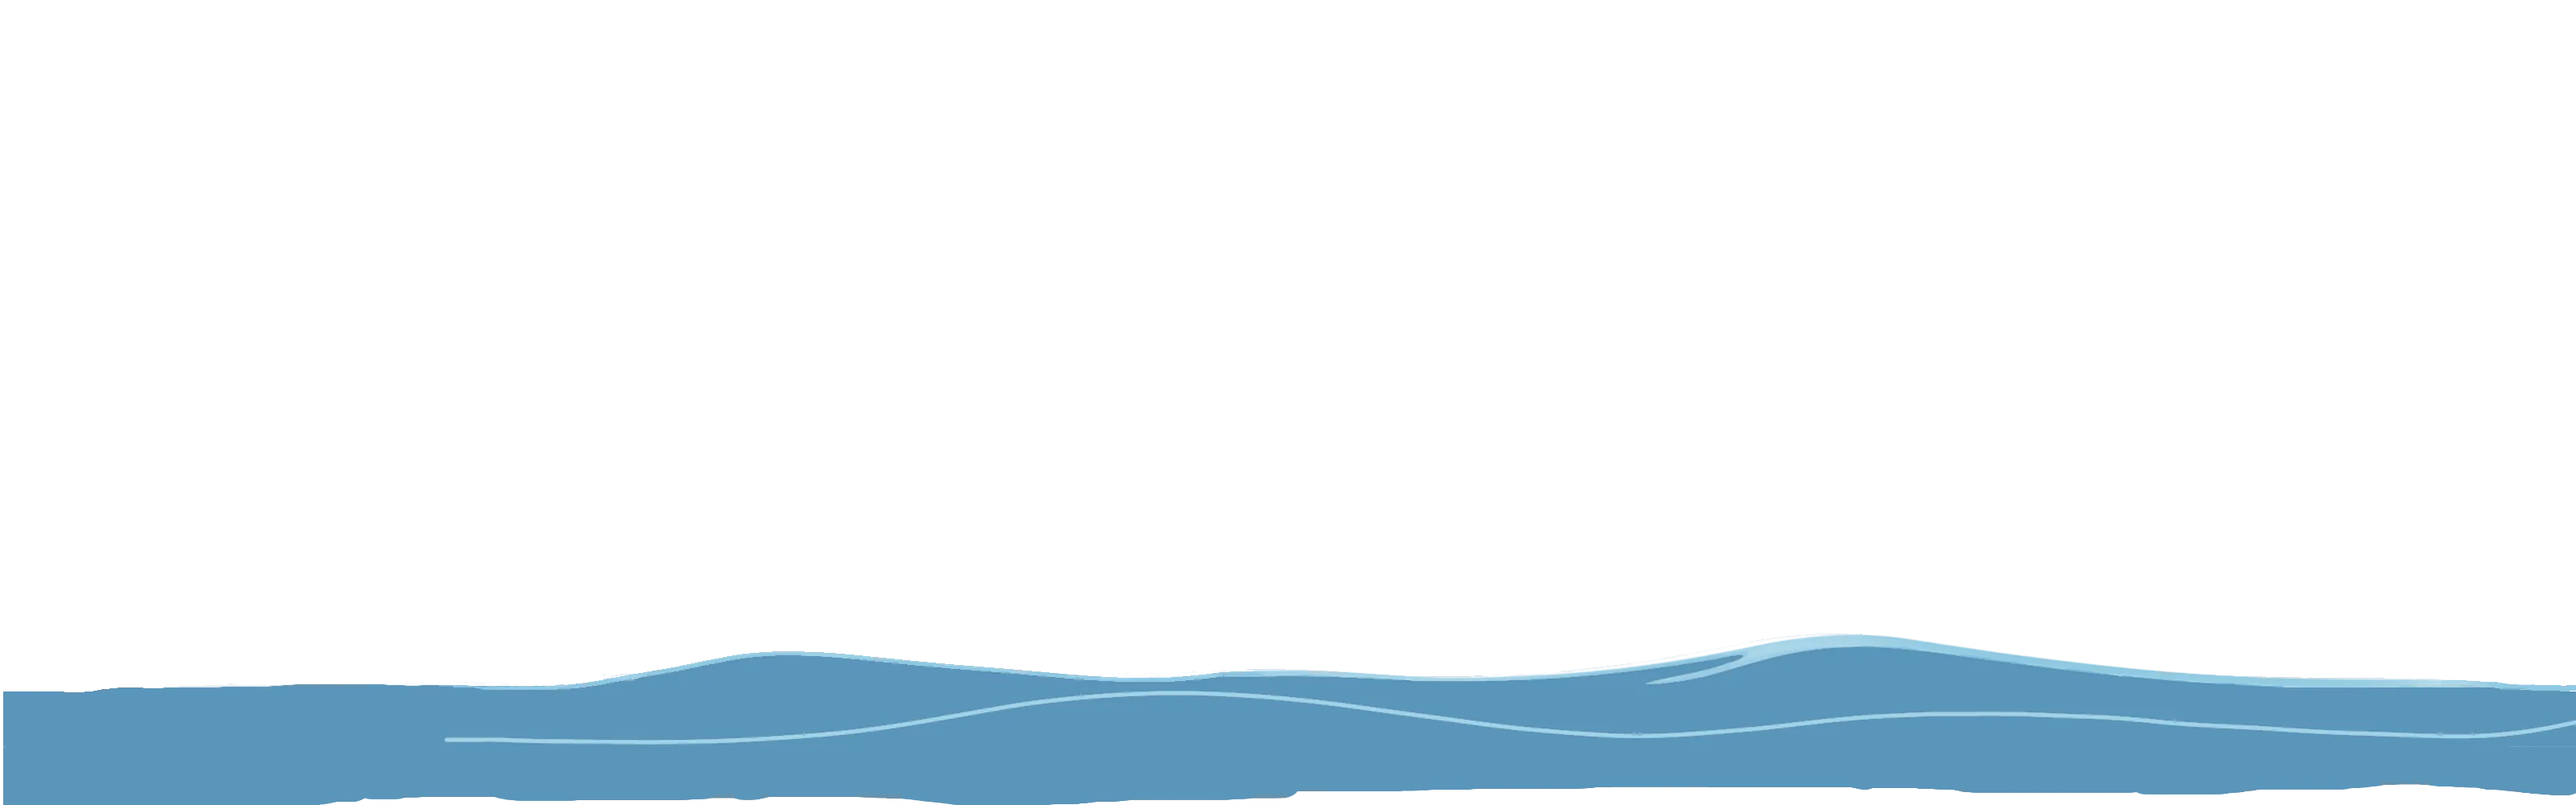
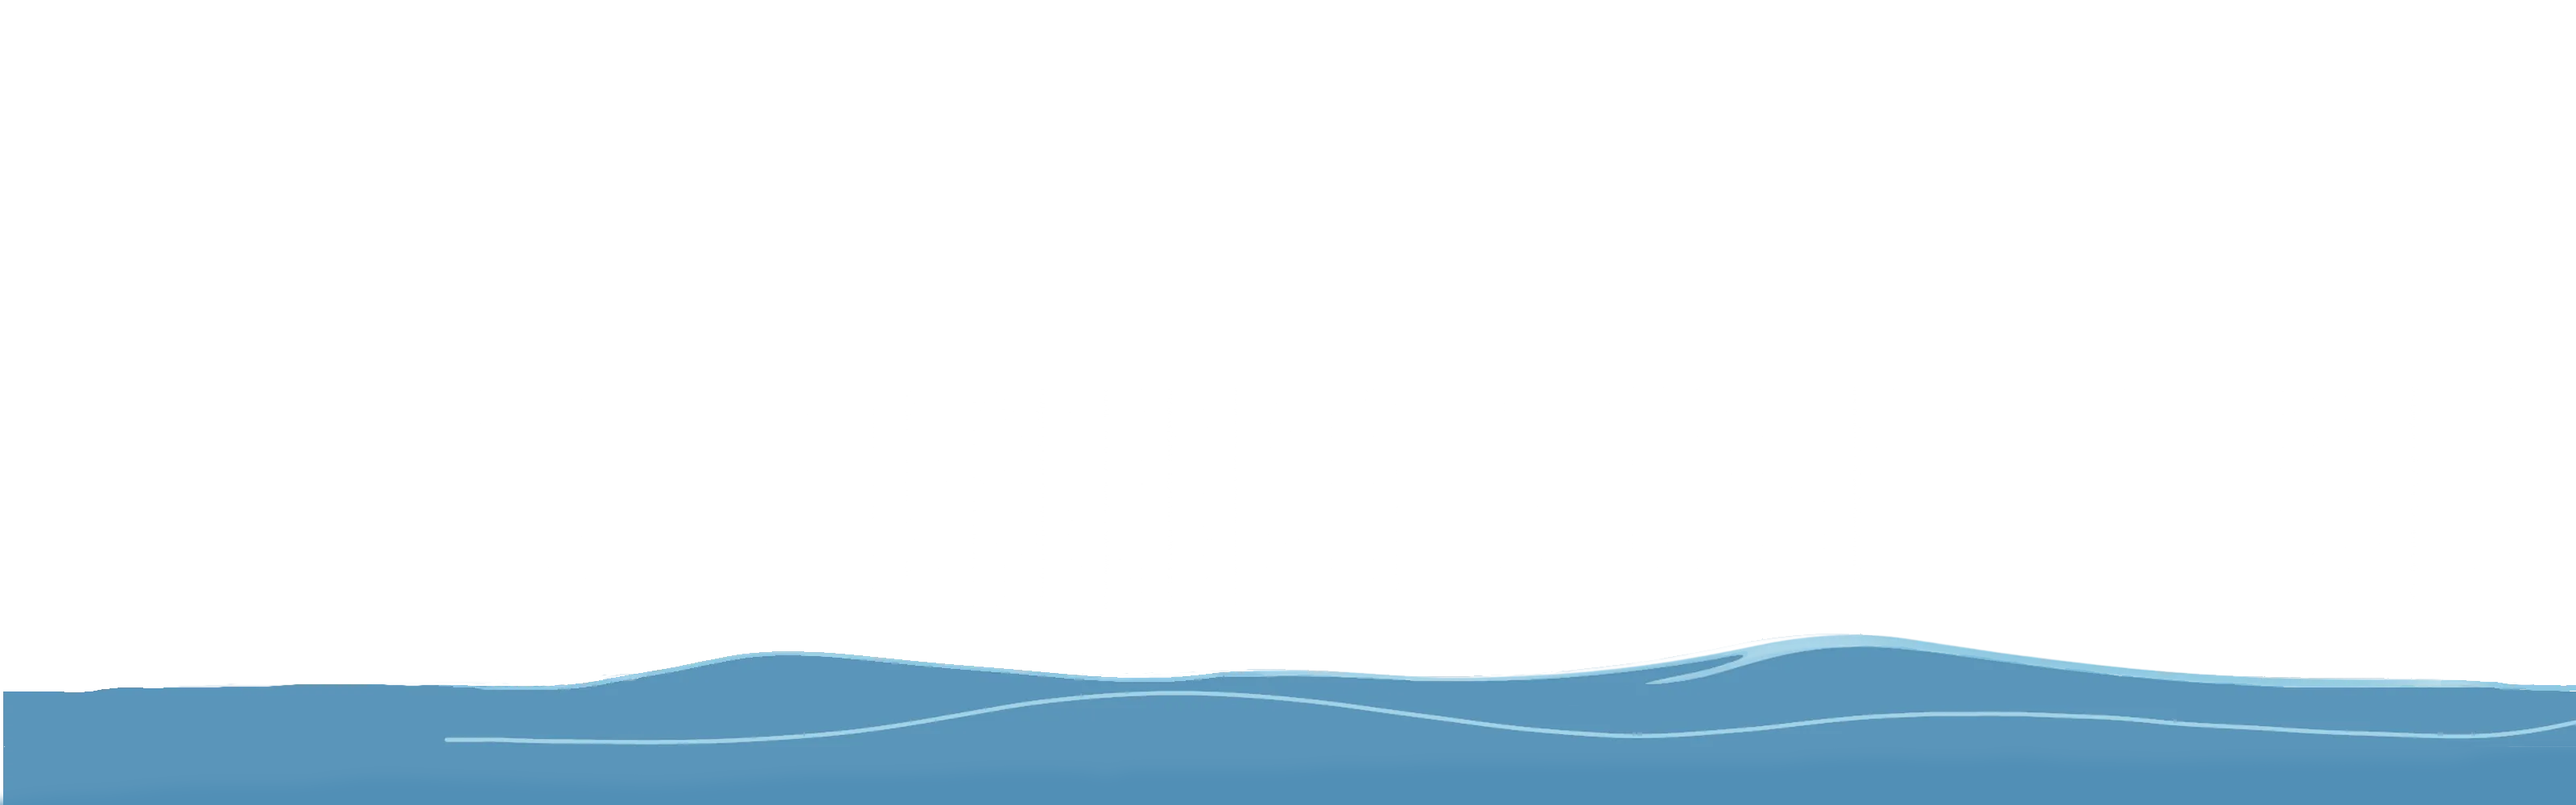
fix some mobile zoom bugs and rendering gaps

Changed region(s): [[0.4062, 0.961, 1.0, 1.0], [0.125, 0.992, 0.375, 1.0]]

diff --git a/assets/01_browser_zoom_lock.js b/assets/01_browser_zoom_lock.js
@@ -1,18 +1,41 @@
-// 01_zoom_lock.js — Cancel *browser page zoom only* by scaling the OUTER iframe.
-// Uses DPR (works in all browsers) and aggressively settles during first load.
-
 (function () {
   const ID = 'depth-iframe';
 
-  function dpr() { return window.devicePixelRatio || 1; }
-  function vw()  { return document.documentElement.clientWidth  || window.innerWidth  || 0; }
-  function vh()  { return document.documentElement.clientHeight || window.innerHeight || 0; }
+  // ---- platform detection ----
+  const ua = navigator.userAgent || '';
+  const isIOS = /iP(ad|hone|od)/.test(ua);
+  const isWebkit = /WebKit/.test(ua) && !/CriOS|FxiOS|OPiOS|EdgiOS/.test(ua);
+  const isIOSSafari = isIOS && isWebkit;
+  const isAndroid = /Android/i.test(ua);
+
+  // ---- query param / JS flag override ----
+  const urlParams = new URLSearchParams(location.search);
+  const noZoom = urlParams.has('nozoom') || window.PELAGICA_NO_ZOOM_LOCK;
+
+  if (isIOSSafari || isAndroid || noZoom) {
+    console.log("Zoom lock disabled on this device.");
+    return;
+  }
+
+  // ---- normal zoom lock below ----
+  const dpr = () => window.devicePixelRatio || 1;
+  const vw  = () => document.documentElement.clientWidth  || window.innerWidth  || 0;
+  const vh  = () => document.documentElement.clientHeight || window.innerHeight || 0;
+
+  let last = { Z: 0, W: 0, H: 0 };
 
   function apply(el) {
-    const Z = dpr();                 // page zoom reflected in DPR in all browsers
-    const W = vw(), H = vh();
+    const Z = dpr(), W = vw(), H = vh();
+    if (Math.abs(Z - last.Z) < 1e-3 && W === last.W && H === last.H) return;
 
-    // Pre-scale by Z, then scale by 1/Z ⇒ visually fills viewport at any page zoom
+    last = { Z, W, H };
+    if (Z === 1) {
+      el.style.transform = '';
+      el.style.width = '';
+      el.style.height = '';
+      return;
+    }
+
     el.style.position        = 'fixed';
     el.style.top             = '0';
     el.style.left            = '0';
@@ -21,51 +44,32 @@
     el.style.transformOrigin = 'top left';
     el.style.transform       = 'scale(' + (1 / Z) + ')';
     el.style.border          = 'none';
-    el.style.zIndex          = '0';
     el.style.pointerEvents   = 'none';
     el.style.willChange      = 'transform';
   }
 
-  // Wait until the iframe actually exists (Dash inserts it after assets load)
-  function waitForIframe(cb, timeoutMs = 8000) {
-    const now = document.getElementById(ID);
-    if (now) return cb(now);
-
-    const t0 = performance.now();
+  function waitForIframe(cb) {
+    const el = document.getElementById(ID);
+    if (el) return cb(el);
     const obs = new MutationObserver(() => {
       const el = document.getElementById(ID);
       if (el) { obs.disconnect(); cb(el); }
-      else if (performance.now() - t0 > timeoutMs) { obs.disconnect(); }
     });
     if (document.body) obs.observe(document.body, { childList: true, subtree: true });
-    const int = setInterval(() => {
-      const el = document.getElementById(ID);
-      if (el) { clearInterval(int); cb(el); }
-      else if (performance.now() - t0 > timeoutMs) { clearInterval(int); }
-    }, 50);
   }
 
   function boot(el) {
-    // Aggressive settle: hit multiple frames + timed passes so initial 150% is caught
-    const passes = [0, 16, 32, 64, 96, 160, 240, 400, 700, 1200];
-    passes.forEach(ms => setTimeout(() => apply(el), ms));
-
-    // Also poll DPR for the first 2 seconds; re-apply if it changes
-    let last = -1, t0 = performance.now();
-    const int = setInterval(() => {
-      const z = dpr();
-      if (Math.abs(z - last) > 1e-3) { last = z; apply(el); }
-      if (performance.now() - t0 > 2000) clearInterval(int);
-    }, 50);
-
-    // Keep it glued after boot
-    const rerun = () => apply(el);
-    window.addEventListener('resize', rerun, { passive: true });
-    window.addEventListener('orientationchange', rerun, { passive: true });
-    window.addEventListener('pageshow', () => apply(el), { passive: true });
+    [0, 50, 200].forEach(ms => setTimeout(() => apply(el), ms));
+    let pending = false;
+    const rerun = () => {
+      if (pending) return;
+      pending = true;
+      requestAnimationFrame(() => { pending = false; apply(el); });
+    };
+    addEventListener('resize', rerun, { passive: true });
+    addEventListener('orientationchange', rerun, { passive: true });
     if (window.visualViewport) {
       window.visualViewport.addEventListener('resize', rerun, { passive: true });
-      window.visualViewport.addEventListener('scroll',  rerun, { passive: true });
     }
   }
 

diff --git a/depth_viewer/style.css b/depth_viewer/style.css
@@ -32,22 +32,34 @@ body {
 
 }
 
-/* Image stays centered and at natural width */
+/*Image stays centered and at natural width */
 .layer-img{
   position:absolute;
   top:0; left:50%;
-  transform:translate(-50%,0);
-  height:var(--strip-h,1000px);   /* NEW – full strip height once JS sets it */
-  image-rendering:crisp-edges;
-  transition:transform 1.2s ease-out;
-}
-
-
-
-
-.layer-img {
+  /*transform:translate(-50%,0);*/
+  height:var(--strip-h,1000px);   
+  backface-visibility: hidden;
+  /*image-rendering:crisp-edges;*/
+  will-change: transform;
+  image-rendering: auto !important; 
   transition: none !important;
+  transform: translate(-50%, 0) translateZ(0); 
 }
+
+/* Stabilize tile images on Chrome 
+.layer-img {
+  position:absolute;
+  top:0; left:50%;
+  height:var(--strip-h,1000px);   
+  backface-visibility: hidden;
+  transform-style: preserve-3d;
+  will-change: transform;
+  transition: none !important; 
+  image-rendering: auto !important; 
+  transform: translate(-50%, 0) translateZ(0); 
+}*/
+
+
 
 
 
